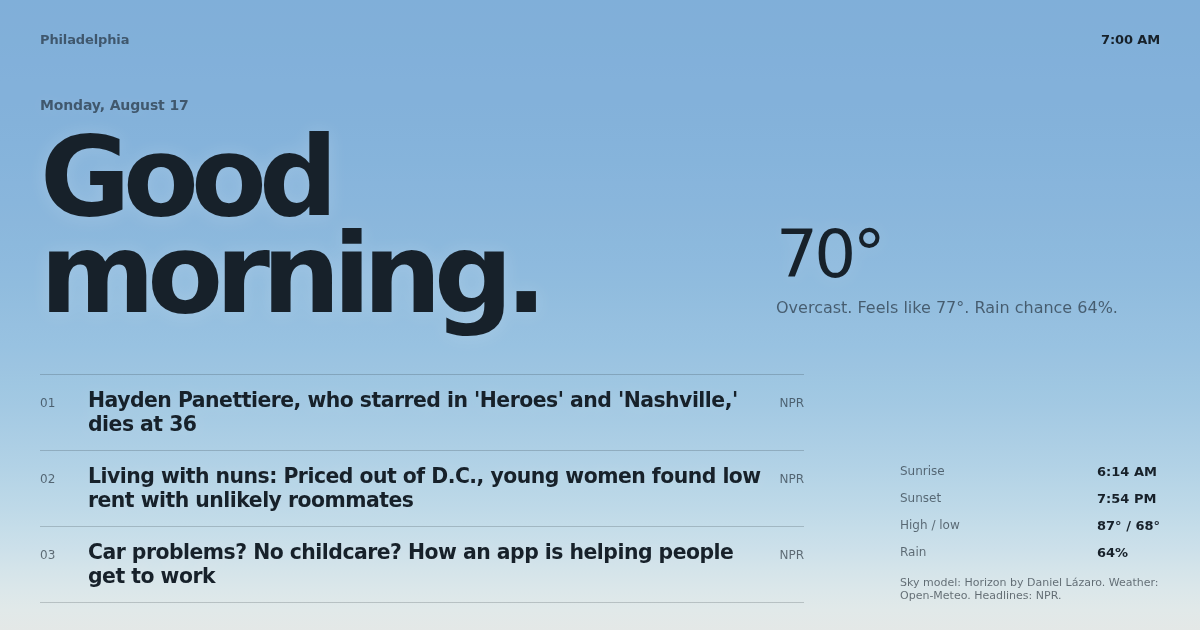
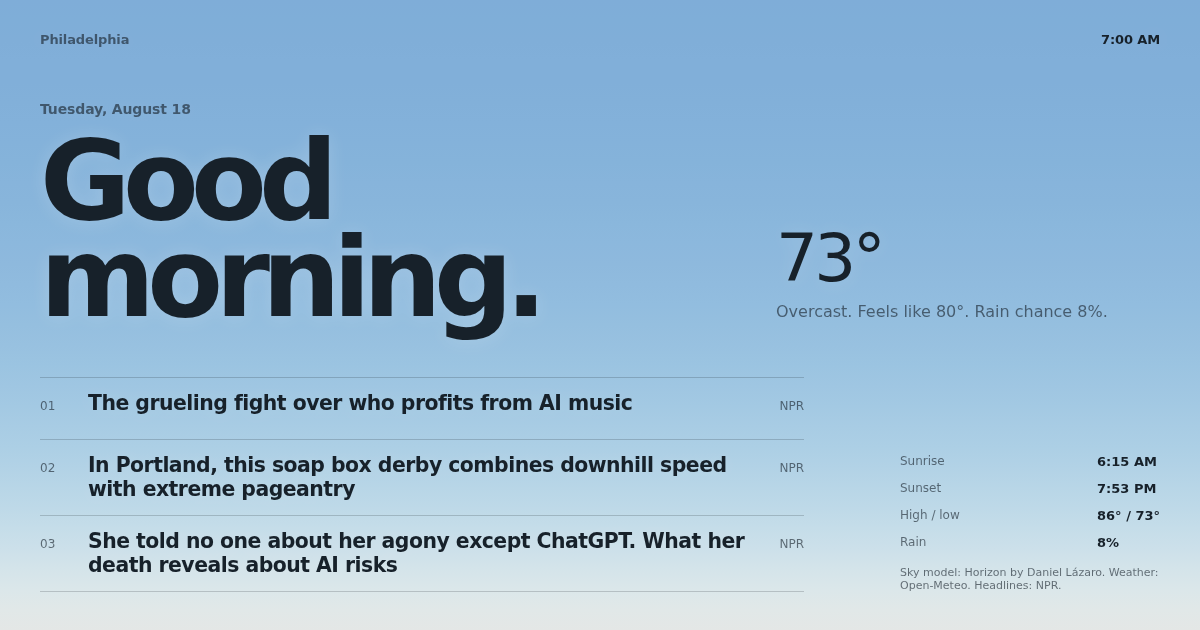
chore: refresh morning briefing 2026-08-18

diff --git a/index.html b/index.html
@@ -5,17 +5,17 @@
   <meta name="viewport" content="width=device-width, initial-scale=1">
   <meta name="color-scheme" content="light dark">
   <meta name="theme-color" content="#7595b2">
-  <meta name="description" content="Philadelphia morning briefing for 2026-08-17: Overcast. Feels like 77°. Rain chance 64%.">
+  <meta name="description" content="Philadelphia morning briefing for 2026-08-18: Overcast. Feels like 80°. Rain chance 8%.">
   <meta property="og:type" content="website">
   <meta property="og:title" content="Philadelphia morning briefing">
-  <meta property="og:description" content="Overcast. Feels like 77°. Rain chance 64%. Three stories for Monday, August 17.">
-  <meta property="og:url" content="https://evan-luther.github.io/morning-briefing/?date=2026-08-17">
-  <meta property="og:image" content="https://evan-luther.github.io/morning-briefing/briefing.png?v=2026-08-17">
+  <meta property="og:description" content="Overcast. Feels like 80°. Rain chance 8%. Three stories for Tuesday, August 18.">
+  <meta property="og:url" content="https://evan-luther.github.io/morning-briefing/?date=2026-08-18">
+  <meta property="og:image" content="https://evan-luther.github.io/morning-briefing/briefing.png?v=2026-08-18">
   <meta property="og:image:width" content="1200">
   <meta property="og:image:height" content="630">
   <meta property="og:image:alt" content="Philadelphia morning sky with today's briefing">
   <meta name="twitter:card" content="summary_large_image">
-  <title>Morning Briefing | Monday, August 17</title>
+  <title>Morning Briefing | Tuesday, August 18</title>
   <style>
     :root {
       --horizon: linear-gradient(to bottom, #7595b2, #dbb69d);
@@ -195,27 +195,27 @@
 
     <section class="lead" aria-labelledby="greeting">
       <div>
-        <p class="date">Monday, August 17</p>
+        <p class="date">Tuesday, August 18</p>
         <h1 id="greeting">Good morning.</h1>
       </div>
       <div class="weather">
-        <div class="temperature">70°</div>
-        <p>Overcast. Feels like 77°. Rain chance 64%.</p>
+        <div class="temperature">73°</div>
+        <p>Overcast. Feels like 80°. Rain chance 8%.</p>
       </div>
     </section>
 
     <section class="briefing" aria-label="Today's public briefing">
       <div class="stories">
-        <a class="story" href="https://www.npr.org/2026/08/17/nx-s1-5935226/hayden-panettiere-dies" target="_blank" rel="noreferrer"><span class="story-index">01</span><span class="story-title">Hayden Panettiere, who starred in &#x27;Heroes&#x27; and &#x27;Nashville,&#x27; dies at 36</span><span class="story-source">NPR</span></a>
-        <a class="story" href="https://www.npr.org/2026/08/17/nx-s1-5913980/nuns-dc-affordable-housing" target="_blank" rel="noreferrer"><span class="story-index">02</span><span class="story-title">Living with nuns: Priced out of D.C., young women found low rent with unlikely roommates</span><span class="story-source">NPR</span></a>
-        <a class="story" href="https://www.npr.org/2026/08/17/nx-s1-5893721/workers-mcdonalds-work-app-jobs-ai" target="_blank" rel="noreferrer"><span class="story-index">03</span><span class="story-title">Car problems? No childcare? How an app is helping people get to work</span><span class="story-source">NPR</span></a>
+        <a class="story" href="https://www.npr.org/sections/planet-money/2026/08/18/g-s1-138852/grueling-fight-over-who-profits-from-ai-music" target="_blank" rel="noreferrer"><span class="story-index">01</span><span class="story-title">The grueling fight over who profits from AI music</span><span class="story-source">NPR</span></a>
+        <a class="story" href="https://www.npr.org/2026/08/18/nx-s1-5935518/portland-oregon-soap-box-derby-race-pdx" target="_blank" rel="noreferrer"><span class="story-index">02</span><span class="story-title">In Portland, this soap box derby combines downhill speed with extreme pageantry</span><span class="story-source">NPR</span></a>
+        <a class="story" href="https://www.npr.org/2026/08/18/nx-s1-5929575/ai-suicide-risks-mental-health" target="_blank" rel="noreferrer"><span class="story-index">03</span><span class="story-title">She told no one about her agony except ChatGPT. What her death reveals about AI risks</span><span class="story-source">NPR</span></a>
       </div>
       <div>
         <div class="daylight">
-          <span>Sunrise</span><strong>6:14 AM</strong>
-          <span>Sunset</span><strong>7:54 PM</strong>
-          <span>High / low</span><strong>87° / 68°</strong>
-          <span>Rain</span><strong>64%</strong>
+          <span>Sunrise</span><strong>6:15 AM</strong>
+          <span>Sunset</span><strong>7:53 PM</strong>
+          <span>High / low</span><strong>86° / 73°</strong>
+          <span>Rain</span><strong>8%</strong>
         </div>
         <div class="attribution">Sky model: Horizon by Daniel Lázaro. Weather: Open-Meteo. Headlines: NPR.</div>
       </div>
